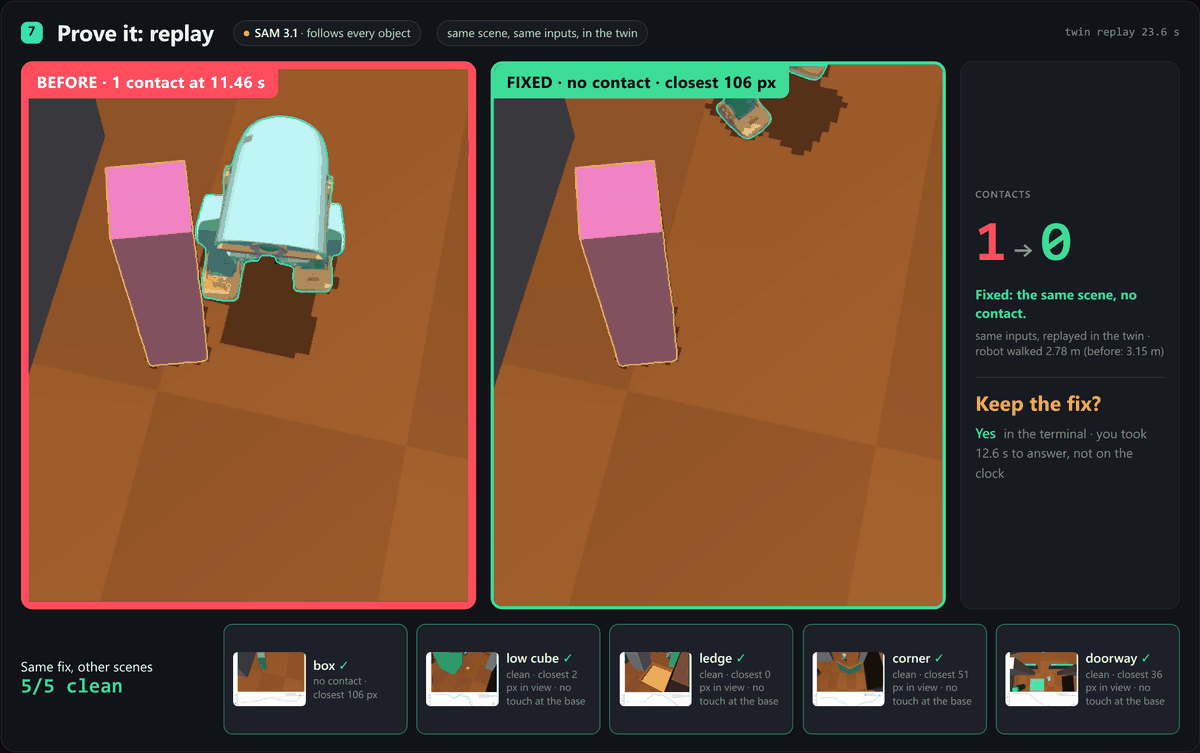
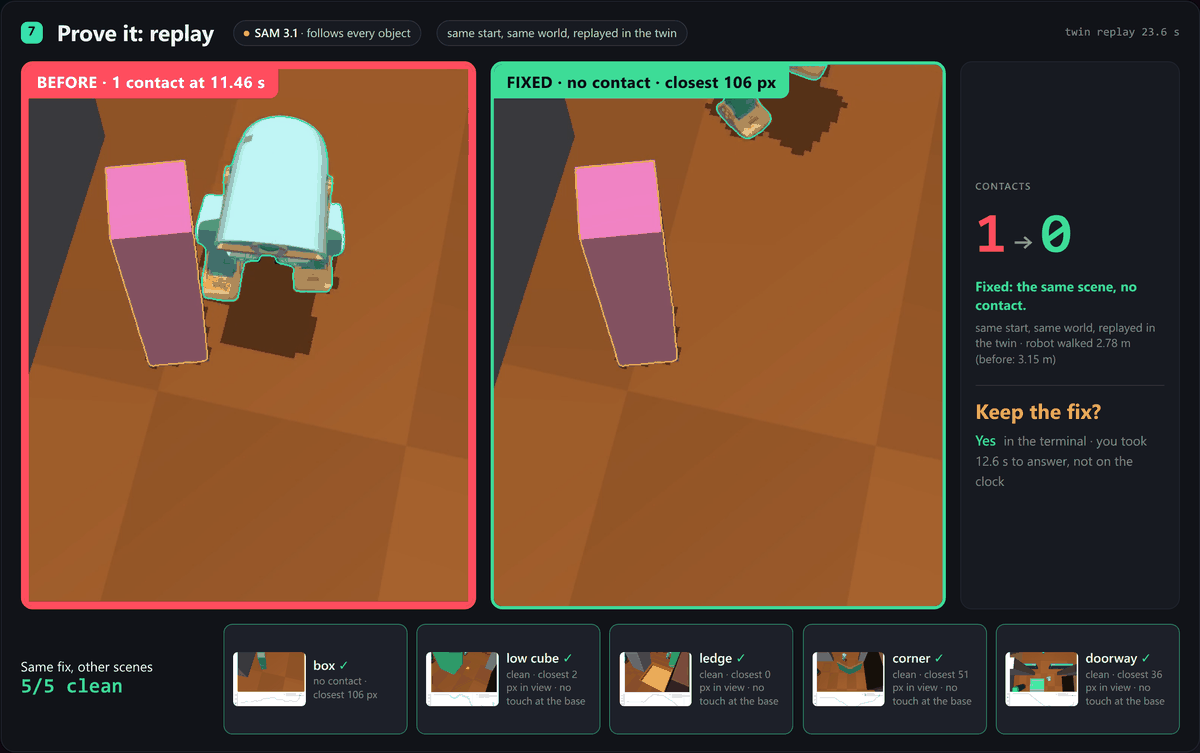
Console: Wonder's confidence named as its own, citations checked n/3; "same start, same world"; no stray word in Muse Code's panel
- The diagnosis line reads "Muse Wonder's own confidence 0.62 · citations checked 3/3": the number is
  Wonder's self-report, the three checks are BlinkFlow's (key frames sent, log ticks that exist, the line
  in the target's file). "Fix it?" and the rail say "own confidence".
- The proof says "same start, same world, replayed in the twin" instead of "same inputs": after a fix the
  walk changes, and so do the brain's inputs. Console, teaser, docs/console-prove.png.
- The placeholder before Muse Code's first tool call sat in the tool-row grid and wrapped a word per
  line into a 1.2rem column, leaving "is" on screen; it is one centred line now.

docs/report rebuilt.

Changed region(s): [[0.8017, 0.2444, 0.9558, 0.4887], [0.8017, 0.5193, 0.9558, 0.6414], [0.4008, 0.0305, 0.5858, 0.0611]]

diff --git a/blinkflow/console/static/console.js b/blinkflow/console/static/console.js
@@ -95,7 +95,7 @@ const STEPS = [
   { id: "cause", title: "Find the cause", models: () => [chip("wonder")] },
   { id: "ask", title: "Fix it?", models: () => [chip("you")] },
   { id: "fix", title: "Write the fix", models: () => [chip("code")] },
-  { id: "proof", title: "Prove it: replay", models: () => [chip("sam"), plain("same scene, same inputs, in the twin")] },
+  { id: "proof", title: "Prove it: replay", models: () => [chip("sam"), plain("same start, same world, replayed in the twin")] },
   { id: "done", title: "Fixed and verified", models: () => [plain("the real clock and the bill")] },
 ];
 const STEP = Object.fromEntries(STEPS.map((x, i) => [x.id, { ...x, n: i + 1 }]));
@@ -863,7 +863,9 @@ P.cause = () => {
   rows.forEach(([cls, label, said, ev], i) => box.append(h("div", { class: `row3 ${cls} ${fx("row3@" + cls)}`, style: `animation-delay:${i * 0.25}s` },
     h("div", { class: "say" }, h("span", { class: "no" }, i + 1), h("div", {}, h("div", { class: "lab" }, label), h("div", { class: "txt" }, said))),
     h("div", { class: "link" }), ev || h("div", { class: "ev" }))));
-  box.append(h("div", { class: "tech" }, `confidence ${num(d.confidence, 2)} · ${d.grounded ? "file, lines and cited evidence checked" : "not grounded"}`,
+  // the confidence is the number Muse Wonder gives itself; the three citations are BlinkFlow's checks above
+  const checked = [kcited.length > 0, !!d.grounded, inFile].filter(Boolean).length;
+  box.append(h("div", { class: "tech" }, `Muse Wonder's own confidence ${num(d.confidence, 2)} · citations checked ${checked}/3`,
     m ? ` · Muse Wonder ${secs(m.seconds)}, ${m.input_tokens} tokens in (${m.cached_input_tokens || 0} cached), ${m.output_tokens} out, ${usd(m.cost_usd)}` : "",
     h("details", {}, h("summary", {}, "the full explanation"), d.explanation)));
   return [head("cause", aside), box];
@@ -884,7 +886,7 @@ function logCard(log, style, before = 6, after = 2) {
 function askCard(a, big) {
   const ans = st.answers[a.id];
   const ctx = a.question === "Fix it?"
-    ? [a.cause, a.file ? h("div", { class: "where", style: "margin-top:.6rem" }, `${a.file} · ${a.lines[0] === a.lines[1] ? `line ${a.lines[0]}` : `lines ${a.lines.join("–")}`} · confidence ${num(a.confidence, 2)}`) : null]
+    ? [a.cause, a.file ? h("div", { class: "where", style: "margin-top:.6rem" }, `${a.file} · ${a.lines[0] === a.lines[1] ? `line ${a.lines[0]}` : `lines ${a.lines.join("–")}`} · Muse Wonder's own confidence ${num(a.confidence, 2)}`) : null]
     : [`With the fix: ${a.after}.`, h("br"), `Before it: ${a.before}.`, a.stat ? h("div", { class: "mono mute", style: "margin-top:.5rem; font-size:1rem" }, `${a.stat} · ${(a.files || []).join(", ")}`) : null];
   return h("div", { class: big ? `ask ${fx("ask@" + a.id)}` : "" },
     h("div", { class: "q" }, a.question),
@@ -1025,7 +1027,7 @@ P.proof = () => {
   box.append(h("div", { class: "card counter" }, h("h3", {}, fall ? "falls" : "contacts"),
     h("div", { class: "n" }, h("span", { class: "a" }, count(vb)), h("span", { class: "arrow" }, "→"), h("span", { class: "b", style: va && va.incident ? "color:var(--red)" : "" }, count(va))),
     h("div", { class: "v" }, va ? (va.valid && !va.incident ? h("b", { style: "color:var(--green)" }, `Fixed: the same scene, no ${fall ? "fall" : "contact"}.`) : h("b", { style: "color:var(--red)" }, "Not fixed yet.")) : "the verdict comes from the pixels, as before",
-      va ? h("div", { class: "mute", style: "margin-top:.4rem; font-size:.9rem" }, `same inputs, replayed in the twin · robot walked ${num(va.travel_m, 2)} m (before: ${num(vb && vb.travel_m, 2)} m)`) : null),
+      va ? h("div", { class: "mute", style: "margin-top:.4rem; font-size:.9rem" }, `same start, same world, replayed in the twin · robot walked ${num(va.travel_m, 2)} m (before: ${num(vb && vb.travel_m, 2)} m)`) : null),
     keep ? h("div", { class: "keep" }, askCard(keep, false)) : null));
   box.append(controls(va, atag));
   return [head("proof", after && after.rendered ? `twin replay ${secs(after.rendered.seconds)}` : null), box];
@@ -1312,7 +1314,7 @@ function result(id) {
     case "heard": return st.said ? `“${st.said.text}”` : st.raises.length ? `${last(st.raises).signs.join(", ")} at ${num(last(st.raises).t)} s` : "";
     case "see": { const v = seeTag && st.sees[seeTag], c = fc(seeTag);
       return v && v.named ? `${v.named.robot} · ${v.named.object}${c ? ` · contact ${num(c.brain_s, 2)} s` : ""}` : ""; }
-    case "cause": return d ? `${d.code ? `${d.code.file}:${d.code.start}` : d.cause_key} · ${num(d.confidence, 2)}` : st.wonderOrder.length ? "reading" : "";
+    case "cause": return d ? `${d.code ? `${d.code.file}:${d.code.start}` : d.cause_key} · own confidence ${num(d.confidence, 2)}` : st.wonderOrder.length ? "reading" : "";
     case "ask": return fixA ? `${fixA.yes ? "yes" : "no"} · in the ${fixA.by}` : fixQ ? "waiting for you" : "";
     case "fix": return ch ? `${ch.stat}${st.commit ? " · kept" : st.undos.length ? " · rolled back" : ""}` : st.checkpoint ? `safety save ${st.checkpoint.commit.slice(0, 7)}` : "";
     case "proof": return va ? `contacts ${vb && vb.incident ? 1 : 0} → ${va.incident ? 1 : 0}${nctl ? ` · control ${Object.values(ctl).filter((c) => c.clean).length + (va.valid && !va.incident ? 1 : 0)}/${nctl + 1} clean` : ""}${

diff --git a/docs/report/console.js b/docs/report/console.js
@@ -95,7 +95,7 @@ const STEPS = [
   { id: "cause", title: "Find the cause", models: () => [chip("wonder")] },
   { id: "ask", title: "Fix it?", models: () => [chip("you")] },
   { id: "fix", title: "Write the fix", models: () => [chip("code")] },
-  { id: "proof", title: "Prove it: replay", models: () => [chip("sam"), plain("same scene, same inputs, in the twin")] },
+  { id: "proof", title: "Prove it: replay", models: () => [chip("sam"), plain("same start, same world, replayed in the twin")] },
   { id: "done", title: "Fixed and verified", models: () => [plain("the real clock and the bill")] },
 ];
 const STEP = Object.fromEntries(STEPS.map((x, i) => [x.id, { ...x, n: i + 1 }]));
@@ -863,7 +863,9 @@ P.cause = () => {
   rows.forEach(([cls, label, said, ev], i) => box.append(h("div", { class: `row3 ${cls} ${fx("row3@" + cls)}`, style: `animation-delay:${i * 0.25}s` },
     h("div", { class: "say" }, h("span", { class: "no" }, i + 1), h("div", {}, h("div", { class: "lab" }, label), h("div", { class: "txt" }, said))),
     h("div", { class: "link" }), ev || h("div", { class: "ev" }))));
-  box.append(h("div", { class: "tech" }, `confidence ${num(d.confidence, 2)} · ${d.grounded ? "file, lines and cited evidence checked" : "not grounded"}`,
+  // the confidence is the number Muse Wonder gives itself; the three citations are BlinkFlow's checks above
+  const checked = [kcited.length > 0, !!d.grounded, inFile].filter(Boolean).length;
+  box.append(h("div", { class: "tech" }, `Muse Wonder's own confidence ${num(d.confidence, 2)} · citations checked ${checked}/3`,
     m ? ` · Muse Wonder ${secs(m.seconds)}, ${m.input_tokens} tokens in (${m.cached_input_tokens || 0} cached), ${m.output_tokens} out, ${usd(m.cost_usd)}` : "",
     h("details", {}, h("summary", {}, "the full explanation"), d.explanation)));
   return [head("cause", aside), box];
@@ -884,7 +886,7 @@ function logCard(log, style, before = 6, after = 2) {
 function askCard(a, big) {
   const ans = st.answers[a.id];
   const ctx = a.question === "Fix it?"
-    ? [a.cause, a.file ? h("div", { class: "where", style: "margin-top:.6rem" }, `${a.file} · ${a.lines[0] === a.lines[1] ? `line ${a.lines[0]}` : `lines ${a.lines.join("–")}`} · confidence ${num(a.confidence, 2)}`) : null]
+    ? [a.cause, a.file ? h("div", { class: "where", style: "margin-top:.6rem" }, `${a.file} · ${a.lines[0] === a.lines[1] ? `line ${a.lines[0]}` : `lines ${a.lines.join("–")}`} · Muse Wonder's own confidence ${num(a.confidence, 2)}`) : null]
     : [`With the fix: ${a.after}.`, h("br"), `Before it: ${a.before}.`, a.stat ? h("div", { class: "mono mute", style: "margin-top:.5rem; font-size:1rem" }, `${a.stat} · ${(a.files || []).join(", ")}`) : null];
   return h("div", { class: big ? `ask ${fx("ask@" + a.id)}` : "" },
     h("div", { class: "q" }, a.question),
@@ -1025,7 +1027,7 @@ P.proof = () => {
   box.append(h("div", { class: "card counter" }, h("h3", {}, fall ? "falls" : "contacts"),
     h("div", { class: "n" }, h("span", { class: "a" }, count(vb)), h("span", { class: "arrow" }, "→"), h("span", { class: "b", style: va && va.incident ? "color:var(--red)" : "" }, count(va))),
     h("div", { class: "v" }, va ? (va.valid && !va.incident ? h("b", { style: "color:var(--green)" }, `Fixed: the same scene, no ${fall ? "fall" : "contact"}.`) : h("b", { style: "color:var(--red)" }, "Not fixed yet.")) : "the verdict comes from the pixels, as before",
-      va ? h("div", { class: "mute", style: "margin-top:.4rem; font-size:.9rem" }, `same inputs, replayed in the twin · robot walked ${num(va.travel_m, 2)} m (before: ${num(vb && vb.travel_m, 2)} m)`) : null),
+      va ? h("div", { class: "mute", style: "margin-top:.4rem; font-size:.9rem" }, `same start, same world, replayed in the twin · robot walked ${num(va.travel_m, 2)} m (before: ${num(vb && vb.travel_m, 2)} m)`) : null),
     keep ? h("div", { class: "keep" }, askCard(keep, false)) : null));
   box.append(controls(va, atag));
   return [head("proof", after && after.rendered ? `twin replay ${secs(after.rendered.seconds)}` : null), box];
@@ -1312,7 +1314,7 @@ function result(id) {
     case "heard": return st.said ? `“${st.said.text}”` : st.raises.length ? `${last(st.raises).signs.join(", ")} at ${num(last(st.raises).t)} s` : "";
     case "see": { const v = seeTag && st.sees[seeTag], c = fc(seeTag);
       return v && v.named ? `${v.named.robot} · ${v.named.object}${c ? ` · contact ${num(c.brain_s, 2)} s` : ""}` : ""; }
-    case "cause": return d ? `${d.code ? `${d.code.file}:${d.code.start}` : d.cause_key} · ${num(d.confidence, 2)}` : st.wonderOrder.length ? "reading" : "";
+    case "cause": return d ? `${d.code ? `${d.code.file}:${d.code.start}` : d.cause_key} · own confidence ${num(d.confidence, 2)}` : st.wonderOrder.length ? "reading" : "";
     case "ask": return fixA ? `${fixA.yes ? "yes" : "no"} · in the ${fixA.by}` : fixQ ? "waiting for you" : "";
     case "fix": return ch ? `${ch.stat}${st.commit ? " · kept" : st.undos.length ? " · rolled back" : ""}` : st.checkpoint ? `safety save ${st.checkpoint.commit.slice(0, 7)}` : "";
     case "proof": return va ? `contacts ${vb && vb.incident ? 1 : 0} → ${va.incident ? 1 : 0}${nctl ? ` · control ${Object.values(ctl).filter((c) => c.clean).length + (va.valid && !va.incident ? 1 : 0)}/${nctl + 1} clean` : ""}${

diff --git a/blinkflow/console/static/console.css b/blinkflow/console/static/console.css
@@ -338,6 +338,8 @@ button:disabled { opacity: .45; cursor: default; }
 .save.undo .lock { background: rgba(255, 181, 71, .12); color: var(--amber); border-color: rgba(255, 181, 71, .5); }
 .tools { display: flex; flex-direction: column; gap: .35rem; font: .85rem var(--mono); overflow: hidden; }
 .tools div { display: grid; grid-template-columns: 1.2rem 9rem 1fr; gap: .5rem; align-items: baseline; }
+/* the placeholder before the first call is not a tool row: in the row grid it wrapped a word per line */
+.tools .wait { display: block; height: auto; padding: 2rem 0; font: 1.2rem var(--sans); } .tools .wait div { display: block; }
 .tools .args { color: var(--mute); overflow: hidden; white-space: nowrap; text-overflow: ellipsis; }
 .tools .st { color: var(--amber); } .tools .st.ok { color: var(--green); } .tools .st.bad { color: var(--red); }
 .diff { font: .92rem/1.55 var(--mono); white-space: pre; overflow: hidden; margin: 0; }

diff --git a/docs/report/console.css b/docs/report/console.css
@@ -338,6 +338,8 @@ button:disabled { opacity: .45; cursor: default; }
 .save.undo .lock { background: rgba(255, 181, 71, .12); color: var(--amber); border-color: rgba(255, 181, 71, .5); }
 .tools { display: flex; flex-direction: column; gap: .35rem; font: .85rem var(--mono); overflow: hidden; }
 .tools div { display: grid; grid-template-columns: 1.2rem 9rem 1fr; gap: .5rem; align-items: baseline; }
+/* the placeholder before the first call is not a tool row: in the row grid it wrapped a word per line */
+.tools .wait { display: block; height: auto; padding: 2rem 0; font: 1.2rem var(--sans); } .tools .wait div { display: block; }
 .tools .args { color: var(--mute); overflow: hidden; white-space: nowrap; text-overflow: ellipsis; }
 .tools .st { color: var(--amber); } .tools .st.ok { color: var(--green); } .tools .st.bad { color: var(--red); }
 .diff { font: .92rem/1.55 var(--mono); white-space: pre; overflow: hidden; margin: 0; }

diff --git a/tools/teaser.py b/tools/teaser.py
@@ -108,7 +108,7 @@ CARD_JS = """([kind, w, h, k, d, rows]) => {
       r.innerHTML = '<div class="say"><span class="no">0</span><div><div class="lab">x</div><div class="txt">x<br>x</div></div></div>'; c.append(r); }
   } else {
     c.innerHTML = `<div class="small">contacts</div><div class="big"><span class="a">${d.before}</span> <span class="to">→</span> <span class="b">${d.after}</span></div>
-      <div class="small">the same scene, the same inputs, replayed with the fix</div>`;
+      <div class="small">same start, same world, replayed in the twin with the fix</div>`;
   }
   document.body.append(c);
 }"""

diff --git a/DEVLOG.md b/DEVLOG.md
@@ -50,3 +50,4 @@ All times UK.
 - 23:30 (Oct 30) Console, film mode: the listen chip reads "tap the glasses · Ray-Ban Meta" when the key event's `trigger` is `glasses-tap`, and "F9 · hold and speak" otherwise, from the stream alone; the waveform line says "between taps" instead of "held" for a tap. The example (Oct 29, F9) stays on F9. The quarter-speed badge reads "0.25× speed": "¼" drew as a broken glyph in fonts without it (DejaVu Sans Mono, headless). Checked headless on the example and on a copy of its stream with the trigger set; `docs/report` rebuilt.
 - 23:45 (Oct 30) README images rebuilt from the public example only (`examples/purple-box`, run 20261029-170922), headless at 1920x1080 with the Windows console fonts, each under 100 KB: See at the first contact (11.20 s, frame 96, gap 1.0 px), Prove it with each replay held on its own moment (contact at 11.46 s; with the fix, the closest approach, 106 px at 12.89 s) and "Keep the fix?" Yes after 12.6 s, the fix kept as 77db417, and the GIF from the two replays ending on "contacts 1 → 0" (97 KB, was 872 KB). New `docs/contact-side.png`: the same contact from 38° on the side in the twin, 11.47 s, the right foot against the box, ringed.
 - 00:05 (Oct 31) README: `docs/contact-side.png` relabelled "the same contact, seen from the side · in the twin", with no time (the twin's 11.47 s is a different measurement from the proof's 11.46 s). New `docs/closest-side.png` under Prove it: in the example the fixed robot never fully enters the proof camera's frame (its box spans y 0–109 px of 720 in all 100 frames SAM sees it), so the twin shows it from the split-screen's side camera at the proof's closest approach, whole, short of the box.
+- 00:40 (Oct 31) Console: the diagnosis line reads "Muse Wonder's own confidence 0.62 · citations checked 3/3" (the number is Wonder's self-report; the three checks are BlinkFlow's: key frames that were sent, log ticks that exist, the line in the target's file), and "Fix it?" and the rail say "own confidence" too. The proof's wording is now "same start, same world, replayed in the twin" (after a fix the walk changes, so the brain's inputs do too), in the console, the teaser and `docs/console-prove.png`. Muse Code's "reads the diagnosis and the code" placeholder sat inside the tool-row grid and wrapped a word per line into a 1.2rem column, leaving a stray "is" on screen; it is a plain centred line now. `docs/report` rebuilt.
